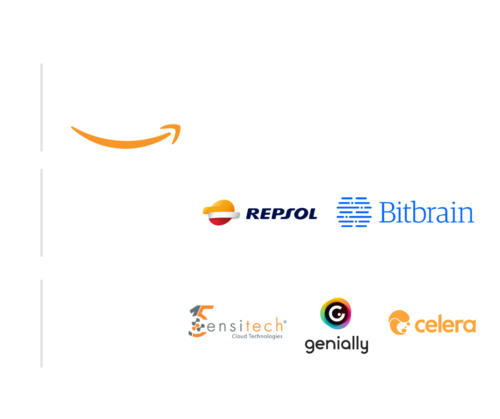
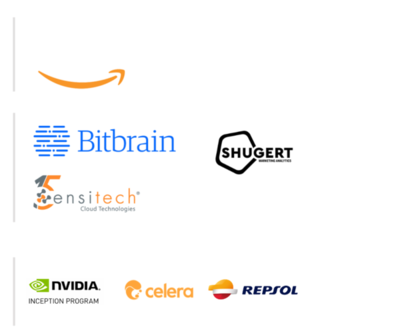
partners page

diff --git a/aisaturdays-program.html b/aisaturdays-program.html
@@ -364,7 +364,7 @@
                       <a href="podcast.html">Podcast</a>
                     </li>
                     <li>
-                      <a href="#team">About us</a>
+                      <a href="partners.html">Partners</a>
                     </li>
                     <li>
 
@@ -676,7 +676,7 @@
                       <a href="projects_saturdays.html" target="_blank">Projects</a>
                     </li>
                     <li>
-                      <a href="#team">About us</a>
+                      <a href="partners.html">Partners</a>
                     </li>
                   </ul>
                 </nav>
@@ -745,7 +745,7 @@
                     <span class="color-orange f-weight">Code 2 Learn</span> 
                   </h3>
                   <p class="color-gray size-20">
-                    During the first half of the program we learn the foundations of machine-learning and deep-learning by coding exercises on GPU enabled environments in a collaborative way, assisted by facilitators and mentors. <br>
+                    During the first half of the program we learn the foundations of machine-learning and deep-learning by <b>coding exercises</b> on GPU enabled environments in a collaborative way, assisted by facilitators and mentors. <br>
 
                     You need some knowledge in Python and handle the basics of data science libraries. <br> <br>
 
@@ -776,7 +776,7 @@
                     <span class="color-orange f-weight">Build 2 Learn</span> 
                   </h3>
                   <p class="color-gray size-20">
-                    In the second half of the program, we build end2end AI powered prototypes using what we learnt on the "code2learn" phase, working with the dataset and model of your choice, we address a real problem with AI. <br> <br>
+                    In the second half of the program, <b>we build end2end AI powered prototypes</b> using what we learnt on the "code2learn" phase, working with the dataset and model of your choice, we address a real problem with AI. <br> <br>
 
                     We form multidisciplinary teams where diversity stands out. 
 
@@ -808,7 +808,7 @@
                     <span class="color-orange f-weight">Demo Day</span>
                   </h3>
                   <p class="color-gray size-20">
-                    Finally, after completing the Saturdays sessions, we deliver a presentation on Demo Day where partners and the AI community celebrates your project showcase and what you have accomplished. <br> <br>
+                    Finally, after completing the Saturdays sessions, <b>we deliver a presentation</b> on Demo Day where partners and the AI community celebrates your project showcase and what you have accomplished. <br> <br>
 
                     To submit your project you must have presented your work in an article in our blog and publish the code in open source through Github.
 
@@ -840,7 +840,7 @@
                   </h3>
                   <p class="color-gray size-20">
                     Once you start to be part of Saturdays.AI you will have access to our private platform where we digitize all the contents:<br>
-                    <b>$></b> recorded classes so you can see them again<br> <b>$></b> 1000$ of cloud resources in AWS<br> <b>$></b> discuss forums and more.
+                    <b>$></b> <b>Recorded classes</b> so you can see them again<br> <b>$></b> Group <b>mentoring sessions</b> to develop your social impact project  <br> <b>$></b>  <b>1000$</b> Cloud resources in AWS<br> <b>$></b> Discuss <b>forums</b>, curated resources and more.
 
                   </p>
                 </div>
@@ -914,6 +914,8 @@
         </div>
       </section>
       <!-- Hero 5 Section End -->
+
+      
 
     
 

diff --git a/partners.html b/partners.html
@@ -364,7 +364,7 @@
                       <a href="podcast.html">Podcast</a>
                     </li>
                     <li>
-                      <a href="#team">About us</a>
+                      <a href="partners.html">Partners</a>
                     </li>
                     <li>
 
@@ -676,7 +676,7 @@
                       <a href="projects_saturdays.html" target="_blank">Projects</a>
                     </li>
                     <li>
-                      <a href="#team">About us</a>
+                      <a href="partners.html">Partners</a>
                     </li>
                   </ul>
                 </nav>
@@ -794,7 +794,49 @@ During the second half of the program , we build end2end prototypes of Artificia
       </section>
       <!-- Hero 5 Section End -->
 
-     
+     <!-- VIDEO -->
+      <div
+        class="section-block section-pad recent-carousel padb-30-mobile padt-30-mobile bg-dark-blue"
+      >
+        <div class="row">
+          <div class="column center">
+            <h3 class="color-white size-5 f-weight">
+              <span class="color-orange f-weight">How </span> we can partner?
+              <br />
+            </h3>
+
+            <p class="color-white text-pad2 size-20">
+            Through learning and building cutting edge projects, we advance in our mission to empower anyone to become participants and shapers of the artificial intelligence impact.<br>
+
+            <br />
+            <img src="images/ENG_SaturdaysAI_Partnerships.png" alt="" />
+
+            <p class="p-text-color  size-20">
+                  <a
+                    href="https://drive.google.com/file/d/1i69cK_2iARvPalEBXq9IdzzK3B_7kMCR/view?usp=sharing"
+                    target="_blank"
+                    ><b>> Be part of the change <</b></a
+                  >
+                </p>
+            <!--<iframe
+              width="100%"
+              height="450"
+              src="https://www.youtube.com/watch?v=ojA2mKEuEdQ"
+              frameborder="0"
+              allow="accelerometer; autoplay; encrypted-media; gyroscope; picture-in-picture"
+              allowfullscreen
+            ></iframe>-->
+            <!--<pre>
+                    <div class="”video-responsive”">
+                    <embed  src="https://www.youtube.com/watch?v=2xCcHZCYp3U" width="1000" height="500" frameborder="0"></embed>
+                    </div>
+                  </pre>-->
+          </div>
+        </div>
+      </div>
+      <!-- <div class="section-block pb-30 pt-0 center">
+          <img src="images/saturdays/ico-03.png" alt="scroll-down">
+        </div> -->
 
 
     

diff --git a/city-cordoba.html b/city-cordoba.html
@@ -364,7 +364,7 @@
                       <a href="podcast.html">Podcast</a>
                     </li>
                     <li>
-                      <a href="#team">About us</a>
+                      <a href="partners.html">Partners</a>
                     </li>
                     <li>
 
@@ -676,7 +676,7 @@
                       <a href="projects_saturdays.html" target="_blank">Projects</a>
                     </li>
                     <li>
-                      <a href="#team">About us</a>
+                      <a href="partners.html">Partners</a>
                     </li>
                   </ul>
                 </nav>
@@ -718,7 +718,9 @@
                     href="http://maps.google.com/maps?q=Aulario+Averroes+%28Campus+de+Rabanales%29+%2C+C%C3%B3rdoba%2C+Espa%C3%B1a"
                     >Aulario Averroes (Campus de Rabanales)</a
                   >
-                  <br /><br />
+                  <br />
+                  <b>Grupos:</b> Machine Learning<br /><br />
+
                   <b>Precio: 127&euro;*</b>
                 </p>
                 

diff --git a/city-barcelona.html b/city-barcelona.html
@@ -364,7 +364,7 @@
                       <a href="podcast.html">Podcast</a>
                     </li>
                     <li>
-                      <a href="#team">About us</a>
+                      <a href="partners.html">Partners</a>
                     </li>
                     <li>
 
@@ -676,7 +676,7 @@
                       <a href="projects_saturdays.html" target="_blank">Projects</a>
                     </li>
                     <li>
-                      <a href="#team">About us</a>
+                      <a href="partners.html">Partners</a>
                     </li>
                   </ul>
                 </nav>
@@ -715,6 +715,7 @@
                 <p class="p-text-color size-20">
                   When: 2021 (to be determined) <br />
                   Where: One Co Work <br />
+                  Groups: Machine Learning, Deep Learning <br />
                   <b>Prize: &euro;350* </b>
                 </p>
 

diff --git a/city-asturias.html b/city-asturias.html
@@ -364,7 +364,7 @@
                       <a href="podcast.html">Podcast</a>
                     </li>
                     <li>
-                      <a href="#team">About us</a>
+                      <a href="partners.html">Partners</a>
                     </li>
                     <li>
 
@@ -676,7 +676,7 @@
                       <a href="projects_saturdays.html" target="_blank">Projects</a>
                     </li>
                     <li>
-                      <a href="#team">About us</a>
+                      <a href="partners.html">Partners</a>
                     </li>
                   </ul>
                 </nav>
@@ -718,6 +718,7 @@
                     target="_blank"
                     >Oficinas Empathy.Co</a
                   ><br />
+                  <b>Grupos:</b> Machine Learning, Deep Learning<br />
                 </p>
 
                 <p size="2">

diff --git a/cities.html b/cities.html
@@ -364,7 +364,7 @@
                       <a href="podcast.html">Podcast</a>
                     </li>
                     <li>
-                      <a href="#team">About us</a>
+                      <a href="partners.html">Partners</a>
                     </li>
                     <li>
 
@@ -676,7 +676,7 @@
                       <a href="projects_saturdays.html" target="_blank">Projects</a>
                     </li>
                     <li>
-                      <a href="#team">About us</a>
+                      <a href="partners.html">Partners</a>
                     </li>
                   </ul>
                 </nav>

diff --git a/city-lapaz.html b/city-lapaz.html
@@ -364,7 +364,7 @@
                       <a href="podcast.html">Podcast</a>
                     </li>
                     <li>
-                      <a href="#team">About us</a>
+                      <a href="partners.html">Partners</a>
                     </li>
                     <li>
 
@@ -676,7 +676,7 @@
                       <a href="projects_saturdays.html" target="_blank">Projects</a>
                     </li>
                     <li>
-                      <a href="#team">About us</a>
+                      <a href="partners.html">Partners</a>
                     </li>
                   </ul>
                 </nav>

diff --git a/city-madrid.html b/city-madrid.html
@@ -364,7 +364,7 @@
                       <a href="podcast.html">Podcast</a>
                     </li>
                     <li>
-                      <a href="#team">About us</a>
+                      <a href="partners.html">Partners</a>
                     </li>
                     <li>
 
@@ -676,7 +676,7 @@
                       <a href="projects_saturdays.html" target="_blank">Projects</a>
                     </li>
                     <li>
-                      <a href="#team">About us</a>
+                      <a href="partners.html">Partners</a>
                     </li>
                   </ul>
                 </nav>

diff --git a/city-monterrey.html b/city-monterrey.html
@@ -364,7 +364,7 @@
                       <a href="podcast.html">Podcast</a>
                     </li>
                     <li>
-                      <a href="#team">About us</a>
+                      <a href="partners.html">Partners</a>
                     </li>
                     <li>
 
@@ -676,7 +676,7 @@
                       <a href="projects_saturdays.html" target="_blank">Projects</a>
                     </li>
                     <li>
-                      <a href="#team">About us</a>
+                      <a href="partners.html">Partners</a>
                     </li>
                   </ul>
                 </nav>

diff --git a/city-sevilla.html b/city-sevilla.html
@@ -364,7 +364,7 @@
                       <a href="podcast.html">Podcast</a>
                     </li>
                     <li>
-                      <a href="#team">About us</a>
+                      <a href="partners.html">Partners</a>
                     </li>
                     <li>
 
@@ -676,7 +676,7 @@
                       <a href="projects_saturdays.html" target="_blank">Projects</a>
                     </li>
                     <li>
-                      <a href="#team">About us</a>
+                      <a href="partners.html">Partners</a>
                     </li>
                   </ul>
                 </nav>

diff --git a/edicion-latam.html b/edicion-latam.html
@@ -364,7 +364,7 @@
                       <a href="podcast.html">Podcast</a>
                     </li>
                     <li>
-                      <a href="#team">About us</a>
+                      <a href="partners.html">Partners</a>
                     </li>
                     <li>
 
@@ -676,7 +676,7 @@
                       <a href="projects_saturdays.html" target="_blank">Projects</a>
                     </li>
                     <li>
-                      <a href="#team">About us</a>
+                      <a href="partners.html">Partners</a>
                     </li>
                   </ul>
                 </nav>

diff --git a/index.html b/index.html
@@ -364,7 +364,7 @@
                       <a href="podcast.html">Podcast</a>
                     </li>
                     <li>
-                      <a href="#team">About us</a>
+                      <a href="partners.html">Partners</a>
                     </li>
                     <li>
 
@@ -676,7 +676,7 @@
                       <a href="projects_saturdays.html" target="_blank">Projects</a>
                     </li>
                     <li>
-                      <a href="#team">About us</a>
+                      <a href="partners.html">Partners</a>
                     </li>
                   </ul>
                 </nav>
